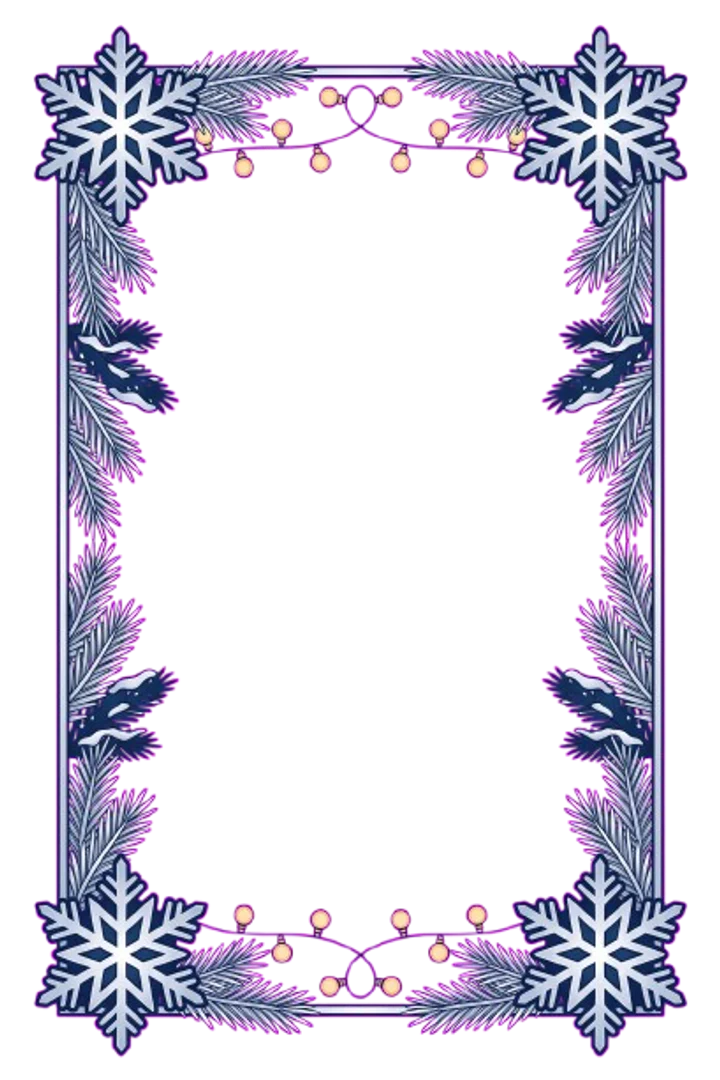
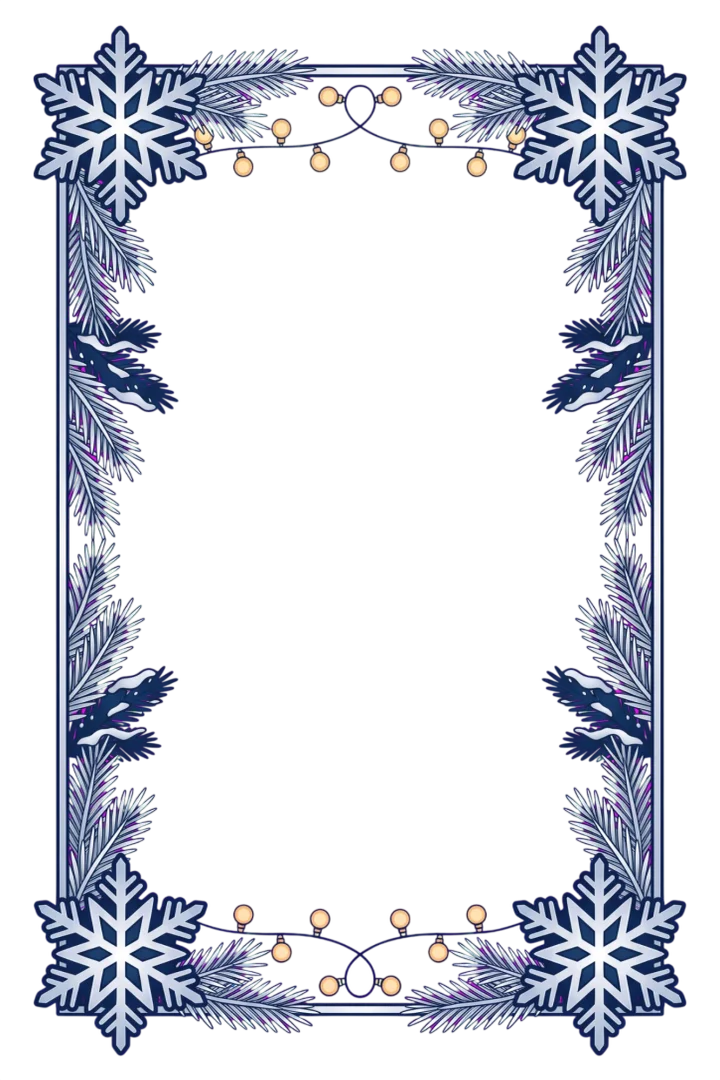
Cadres de fête sur les cartes de saison (accueil, collection, paquets, zoom), désactivables dans les Réglages ; cadres Nouvel An et Noël refaits par Jordan

Changed region(s): [[0.0306, 0.0, 0.9472, 0.9778]]

diff --git a/sw.js b/sw.js
@@ -5,9 +5,9 @@
    Le bloc entre les deux repères est réécrit par « node outils/versions.js » : ne pas le modifier à la main. */
 "use strict";
 /* VERSIONS-AUTO-DEBUT */
-const CORE_VERSION = "7500b2610c";
-const MEDIA_VERSION = "241fb90289";
-const PRECACHE_CORE = ["index.html","manifest.json","fonts/fonts.css?v=a5827da2","jeu.css?v=254a369a","vendor/supabase.js?v=16aeff36","config.js?v=bf7d9cd8","cloud.js?v=a13ce63b","cartes-en.js?v=b669ae2b","interface-en.js?v=e27de772","js/bac-a-sable.js?v=691dd380","js/cartes.js?v=f4223fd7","js/langue-profil.js?v=32393927","js/sons-effets.js?v=4e88cee5","js/moteur.js?v=e03dc57b","js/boutique-modes.js?v=7a0b70bd","js/holo.js?v=bd9f5a71","js/ouverture.js?v=62a77604","js/interface.js?v=1e36523c","js/sw-register.js?v=94e2e138"];
+const CORE_VERSION = "0ea3c7dbe9";
+const MEDIA_VERSION = "0e15ce91e9";
+const PRECACHE_CORE = ["index.html","manifest.json","fonts/fonts.css?v=a5827da2","jeu.css?v=fb9b2953","vendor/supabase.js?v=16aeff36","config.js?v=bf7d9cd8","cloud.js?v=a13ce63b","cartes-en.js?v=b669ae2b","interface-en.js?v=3aa699c7","js/bac-a-sable.js?v=691dd380","js/cartes.js?v=f4223fd7","js/langue-profil.js?v=7efe3076","js/sons-effets.js?v=4e88cee5","js/moteur.js?v=e03dc57b","js/boutique-modes.js?v=7a0b70bd","js/holo.js?v=bd9f5a71","js/ouverture.js?v=62a77604","js/interface.js?v=b25d1478","js/sw-register.js?v=94e2e138"];
 const PRECACHE_MEDIA = ["fonts/manrope-latin-ext-wght-normal.woff2","fonts/manrope-latin-wght-normal.woff2","fonts/marcellus-latin-400-normal.woff2","fonts/marcellus-latin-ext-400-normal.woff2","fonts/marcellus-sc-latin-400-normal.woff2","fonts/marcellus-sc-latin-ext-400-normal.woff2","icones/apple-touch-icon.png","icones/favicon-48.png","icones/icone-192.png","icones/icone-512.png","icones/icone-maskable-512.png","images/fond.webp","images/fond_halloween.webp","images/fond_noel.webp","images/fond_nouvelan.webp","images/fond_valentin.webp","images/lieux/inconnu.webp","images/pack.webp","images/rangs/0.webp","images/rangs/1.webp","images/rangs/2.webp","images/rangs/3.webp","images/rangs/4.webp","images/rangs/5.webp","images/rangs/6.webp","images/reflet.webp"];
 const PRECACHE_LAZY = ["images/avatars/aine.webp?v=7","images/avatars/amaterasu.webp?v=7","images/avatars/anahita.webp?v=7","images/avatars/ananke.webp?v=7","images/avatars/ananke_r.webp?v=7","images/avatars/ananke_v.webp?v=7","images/avatars/anansi.webp?v=7","images/avatars/anat.webp?v=7","images/avatars/andraste.webp?v=7","images/avatars/anubis.webp?v=7","images/avatars/aphrodite.webp?v=7","images/avatars/aphrodite_n.webp?v=7","images/avatars/aphrodite_r.webp?v=7","images/avatars/apollon.webp?v=7","images/avatars/apsu.webp?v=7","images/avatars/apsu_n.webp?v=7","images/avatars/araignee.webp?v=7","images/avatars/archiviste.webp?v=7","images/avatars/ares.webp?v=7","images/avatars/ares_h.webp?v=7","images/avatars/ares_n.webp?v=7","images/avatars/artemis.webp?v=7","images/avatars/artiste.webp?v=7","images/avatars/athena.webp?v=7","images/avatars/athlete_stade.webp?v=7","images/avatars/baba_yaga.webp?v=7","images/avatars/baldur.webp?v=7","images/avatars/balor.webp?v=7","images/avatars/bari_gongju.webp?v=7","images/avatars/bastet.webp?v=7","images/avatars/belobog.webp?v=7","images/avatars/benzaiten.webp?v=7","images/avatars/bia.webp?v=7","images/avatars/biblio.webp?v=7","images/avatars/boucher.webp?v=7","images/avatars/bourreau.webp?v=7","images/avatars/brigid.webp?v=7","images/avatars/calypso.webp?v=7","images/avatars/calypso_n.webp?v=7","images/avatars/calypso_v.webp?v=7","images/avatars/carillonneur.webp?v=7","images/avatars/celeste.webp?v=7","images/avatars/cernunnos.webp?v=7","images/avatars/cerridwen.webp?v=7","images/avatars/change.webp?v=7","images/avatars/charognard.webp?v=7","images/avatars/chasseur.webp?v=7","images/avatars/chernobog.webp?v=7","images/avatars/circe.webp?v=7","images/avatars/circe_n.webp?v=7","images/avatars/circe_v.webp?v=7","images/avatars/colosse.webp?v=7","images/avatars/comptable.webp?v=7","images/avatars/costumes.webp?v=7","images/avatars/coursier.webp?v=7","images/avatars/couturiere.webp?v=7","images/avatars/cronos.webp?v=7","images/avatars/dagda.webp?v=7","images/avatars/daji.webp?v=7","images/avatars/dante.webp?v=7","images/avatars/danu.webp?v=7","images/avatars/demeter.webp?v=7","images/avatars/devote.webp?v=7","images/avatars/dionysos.webp?v=7","images/avatars/doyenne.webp?v=7","images/avatars/dumuzi.webp?v=7","images/avatars/durga.webp?v=7","images/avatars/ea.webp?v=7","images/avatars/echidna.webp?v=7","images/avatars/ecoliere_dorigny.webp?v=7","images/avatars/ecorche.webp?v=7","images/avatars/effigie.webp?v=7","images/avatars/eir.webp?v=7","images/avatars/emiri.webp?v=7","images/avatars/enfant.webp?v=7","images/avatars/eos.webp?v=7","images/avatars/eos_r.webp?v=7","images/avatars/eos_v.webp?v=7","images/avatars/ereshkigal.webp?v=7","images/avatars/ereshkigal_n.webp?v=7","images/avatars/ereshkigal_v.webp?v=7","images/avatars/eris.webp?v=7","images/avatars/eros.webp?v=7","images/avatars/esquille.webp?v=7","images/avatars/fange.webp?v=7","images/avatars/felix.webp?v=7","images/avatars/fenrir.webp?v=7","images/avatars/ficelle.webp?v=7","images/avatars/freya.webp?v=7","images/avatars/freyr.webp?v=7","images/avatars/frigg.webp?v=7","images/avatars/funambule.webp?v=7","images/avatars/gaia.webp?v=7","images/avatars/graffeur.webp?v=7","images/avatars/guanyin.webp?v=7","images/avatars/hades.webp?v=7","images/avatars/hathor.webp?v=7","images/avatars/hecate.webp?v=7","images/avatars/hedone.webp?v=7","images/avatars/heimdall.webp?v=7","images/avatars/hel.webp?v=7","images/avatars/hel_r.webp?v=7","images/avatars/hel_v.webp?v=7","images/avatars/hephaistos.webp?v=7","images/avatars/hera.webp?v=7","images/avatars/herakles.webp?v=7","images/avatars/hermes.webp?v=7","images/avatars/horus.webp?v=7","images/avatars/hypnos.webp?v=7","images/avatars/idunn.webp?v=7","images/avatars/inanna.webp?v=7","images/avatars/indra.webp?v=7","images/avatars/ishara.webp?v=7","images/avatars/ishtar.webp?v=7","images/avatars/isis.webp?v=7","images/avatars/ixchel.webp?v=7","images/avatars/izanami.webp?v=7","images/avatars/izzy.webp?v=7","images/avatars/izzy_h.webp?v=7","images/avatars/joanna.webp?v=7","images/avatars/jordan.webp?v=7","images/avatars/jordan_n.webp?v=7","images/avatars/jormungandr.webp?v=7","images/avatars/joueuse_palud.webp?v=7","images/avatars/kali.webp?v=7","images/avatars/kama.webp?v=7","images/avatars/kitsune.webp?v=7","images/avatars/kitsune_r.webp?v=7","images/avatars/kitsune_v.webp?v=7","images/avatars/konohana.webp?v=7","images/avatars/lance_lugh.webp?v=7","images/avatars/lilith.webp?v=7","images/avatars/lipdentelle.webp?v=7","images/avatars/loki.webp?v=7","images/avatars/loviatar.webp?v=7","images/avatars/lugh.webp?v=7","images/avatars/maat.webp?v=7","images/avatars/maeve.webp?v=7","images/avatars/mago.webp?v=7","images/avatars/marduk.webp?v=7","images/avatars/maree.webp?v=7","images/avatars/maui.webp?v=7","images/avatars/medee.webp?v=7","images/avatars/medee_h.webp?v=7","images/avatars/meduse.webp?v=7","images/avatars/melinoe.webp?v=7","images/avatars/mendiant.webp?v=7","images/avatars/mere.webp?v=7","images/avatars/messagere.webp?v=7","images/avatars/meute.webp?v=7","images/avatars/mohini.webp?v=7","images/avatars/morrigan.webp?v=7","images/avatars/morrigan_h.webp?v=7","images/avatars/mouche.webp?v=7","images/avatars/musicien.webp?v=7","images/avatars/nageuse_lac.webp?v=7","images/avatars/namaka.webp?v=7","images/avatars/nammu.webp?v=7","images/avatars/nemesis.webp?v=7","images/avatars/nephtys.webp?v=7","images/avatars/nergal.webp?v=7","images/avatars/nergal_h.webp?v=7","images/avatars/nike.webp?v=7","images/avatars/nike_v.webp?v=7","images/avatars/nuee.webp?v=7","images/avatars/nuwa.webp?v=7","images/avatars/nyx.webp?v=7","images/avatars/nyx_h.webp?v=7","images/avatars/odin.webp?v=7","images/avatars/oshun.webp?v=7","images/avatars/osiris.webp?v=7","images/avatars/oya.webp?v=7","images/avatars/pakhet.webp?v=7","images/avatars/pandore.webp?v=7","images/avatars/passante.webp?v=7","images/avatars/patronne.webp?v=7","images/avatars/peche_immortalite.webp?v=7","images/avatars/pele.webp?v=7","images/avatars/pele_r.webp?v=7","images/avatars/penitente.webp?v=7","images/avatars/persephone.webp?v=7","images/avatars/plume.webp?v=7","images/avatars/poseidon.webp?v=7","images/avatars/possedee.webp?v=7","images/avatars/promethee.webp?v=7","images/avatars/psyche.webp?v=7","images/avatars/qetesh.webp?v=7","images/avatars/qetesh_r.webp?v=7","images/avatars/qetesh_v.webp?v=7","images/avatars/quetzalcoatl.webp?v=7","images/avatars/ra.webp?v=7","images/avatars/rati.webp?v=7","images/avatars/refaph.webp?v=7","images/avatars/reflet_noir.webp?v=7","images/avatars/reine_sevelin.webp?v=7","images/avatars/relieur.webp?v=7","images/avatars/remi.webp?v=7","images/avatars/rhea.webp?v=7","images/avatars/rusalka.webp?v=7","images/avatars/sansvoix.webp?v=7","images/avatars/scathach.webp?v=7","images/avatars/sedna.webp?v=7","images/avatars/sekhmet.webp?v=7","images/avatars/sekhmet_n.webp?v=7","images/avatars/selene.webp?v=7","images/avatars/set.webp?v=7","images/avatars/shamash.webp?v=7","images/avatars/shango.webp?v=7","images/avatars/shiva.webp?v=7","images/avatars/sif.webp?v=7","images/avatars/skadi.webp?v=7","images/avatars/somnambule.webp?v=7","images/avatars/source.webp?v=7","images/avatars/strategue.webp?v=7","images/avatars/styx.webp?v=7","images/avatars/sun_wukong.webp?v=7","images/avatars/susanoo.webp?v=7","images/avatars/tatoueur.webp?v=7","images/avatars/tatoueuse_flon.webp?v=7","images/avatars/tefnut.webp?v=7","images/avatars/tehom.webp?v=7","images/avatars/tezcatlipoca.webp?v=7","images/avatars/thanatos.webp?v=7","images/avatars/themis.webp?v=7","images/avatars/thor.webp?v=7","images/avatars/thot.webp?v=7","images/avatars/tlazol.webp?v=7","images/avatars/troll.webp?v=7","images/avatars/tsukuyomi.webp?v=7","images/avatars/typhon.webp?v=7","images/avatars/tyr.webp?v=7","images/avatars/ulaph.webp?v=7","images/avatars/ulaphares.webp?v=7","images/avatars/ularchiviste.webp?v=7","images/avatars/ularesathe.webp?v=7","images/avatars/ulbaldere.webp?v=7","images/avatars/ulbaldfrigg.webp?v=7","images/avatars/ulcal.webp?v=7","images/avatars/ulcircal.webp?v=7","images/avatars/ulcirce.webp?v=7","images/avatars/ulhadper.webp?v=7","images/avatars/ulhel.webp?v=7","images/avatars/ulheradio.webp?v=7","images/avatars/ulinaere.webp?v=7","images/avatars/ulji.webp?v=7","images/avatars/ulmaatset.webp?v=7","images/avatars/ulnem.webp?v=7","images/avatars/ulnikebia.webp?v=7","images/avatars/ulnikejor_v.webp?v=7","images/avatars/uloshoya.webp?v=7","images/avatars/uloshun.webp?v=7","images/avatars/ulpele_r.webp?v=7","images/avatars/ulposathe.webp?v=7","images/avatars/ulprombia.webp?v=7","images/avatars/ulprompan.webp?v=7","images/avatars/ulqetjor.webp?v=7","images/avatars/ulqetjor_r.webp?v=7","images/avatars/ulqetjor_v.webp?v=7","images/avatars/ulqetyar.webp?v=7","images/avatars/ulsomnambule.webp?v=7","images/avatars/ulsusama.webp?v=7","images/avatars/ultyphgaia.webp?v=7","images/avatars/ulya.webp?v=7","images/avatars/uzume.webp?v=7","images/avatars/vasseur.webp?v=7","images/avatars/veilleur.webp?v=7","images/avatars/veilleur_pont.webp?v=7","images/avatars/vesta.webp?v=7","images/avatars/voix_flon.webp?v=7","images/avatars/voleuse.webp?v=7","images/avatars/voyante.webp?v=7","images/avatars/voyante_barbare.webp?v=7","images/avatars/vritra.webp?v=7","images/avatars/xiuhcoatl.webp?v=7","images/avatars/xiwangmu.webp?v=7","images/avatars/yama.webp?v=7","images/avatars/yarden.webp?v=7","images/avatars/yarden_d.webp?v=7","images/avatars/yemanja.webp?v=7","images/avatars/ymir.webp?v=7","images/avatars/zeus.webp?v=7","images/lieux/archives.webp","images/lieux/cathedrale.webp","images/lieux/cirque.webp","images/lieux/domaine.webp","images/lieux/encheres.webp","images/lieux/escaliers.webp","images/lieux/faille.webp","images/lieux/flon.webp","images/lieux/ouchy.webp","images/lieux/ruelle.webp","images/lieux/sauvabelin.webp","images/lieux/sousgare.webp","images/lieux/tombeau.webp","images/lieux/tour.webp"];
 /* VERSIONS-AUTO-FIN */

diff --git a/js/interface.js b/js/interface.js
@@ -55,13 +55,18 @@ function holoTilesAttach(root){
   });
   for(const [k,v] of HOLO_TILES) if(!live.has(k)){ holoKill(v.h); HOLO_TILES.delete(k); }
 }
+/* Cadres de fête (Jordan, 25 octobre) : cartes exclusives d'une saison et variantes Saint-Valentin / Nouvel An, affichés à l'accueil et dans la Collection (pas en partie), désactivables dans les Réglages */
+const FRAME_EX={halloween:"halloween",noel:"noel",nouvelan:"nouvel-an",paques:"paques",valentin:"saint-valentin"};
+const frameKey=id=>{ const d=CARDS[id]; if(!d||d.token) return null; if(d.ex&&FRAME_EX[d.ex]) return FRAME_EX[d.ex]; if(/_v$/.test(id)) return "saint-valentin"; if(/_r$/.test(id)) return "nouvel-an"; if(/_p$/.test(id)) return "paques"; return null; };
+const frameCadre=id=>frameOn()&&frameKey(id)?`<i class="cadre cz" style="background-image:url('images/cadres/${frameKey(id)}.webp')" aria-hidden="true"></i>`:"";
+const frameOn=()=>P.cadres!==false&&screen!=="play"&&!(S&&S.tut);
 function fullCard(id,extra="",powOv=null){
   const d=CARDS[id], F=FAC[d.fac], R=RAR[d.r];
   /* carte holo en grand : l'image fixe n'a plus les animations d'ultra-légendaire (reflet arc-en-ciel, ambiance, inclinaison) : l'effet holo prend la suite et elles apparaissaient quelques instants avant de disparaître */
   const hp=/\b(big|fanh)\b/.test(extra)&&d.r==="U"&&!!holoDir(id);
   const fx=!hp&&/\bbig\b/.test(extra)&&(d.r==="L"||d.r==="U")?` tilt${d.r==="U"&&d.vfx?" amb":""}" data-vfx="${d.vfx||""}`:"";
   const tl=/\btileh\b/.test(extra)&&hasHoloTile(id);
-  return `<div class="full ${extra}${d.r==="U"&&!hp&&!tl?" holo":""}${hp?" holopre":""}${tl?" holof":""}${rc(d)}${fx}">${art(id,/\bbig\b/.test(extra)?"big":undefined)}${tl?tileHolo(id,"g"+id):""}${d.r==="L"?'<i class="lgp" aria-hidden="true"></i>':""}<span class="cost">${d.cost}</span>
+  return `<div class="full ${extra}${d.r==="U"&&!hp&&!tl?" holo":""}${hp?" holopre":""}${tl?" holof":""}${rc(d)}${fx}">${art(id,/\bbig\b/.test(extra)?"big":undefined)}${tl?tileHolo(id,"g"+id):""}${frameOn()&&frameKey(id)?`<i class="cadre" style="background-image:url('images/cadres/${frameKey(id)}.webp')" aria-hidden="true"></i>`:""}${d.r==="L"?'<i class="lgp" aria-hidden="true"></i>':""}<span class="cost">${d.cost}</span>
     <div class="band"><div class="n">${d.name}</div><div class="f"><span style="color:${F.c}">${F.n}</span> · <span style="color:${R.c}">${rarN(id)}</span></div>${d.fx?`<div class="e">${fxH(d.fx)}</div>`:""}</div>
     <span class="pw ${powOv!=null&&powOv>d.pow?"up":powOv!=null&&powOv<d.pow?"down":""}">${powOv!=null?powOv:d.pow}</span></div>`;
 }
@@ -104,6 +109,7 @@ function sheetHTML(){
     <div class="setrow"><span>Son</span><span class="footbtns"><button class="toggle" data-act="music" aria-pressed="${P.music}">Musique : ${P.music?"activée":"coupée"}</button><button class="toggle" data-act="sfx" aria-pressed="${P.sfx}">Effets : ${P.sfx?"activés":"coupés"}</button></span></div>
     <div class="setrow"><span>Volume de la musique</span><span class="volrow"><input type="range" min="0" max="100" step="5" value="${P.vm??35}" data-vol="vm" aria-label="Volume de la musique"><b data-volv="vm">${P.vm??35}</b></span></div>
     <div class="setrow"><span>Volume des effets</span><span class="volrow"><input type="range" min="0" max="100" step="5" value="${P.vs??100}" data-vol="vs" aria-label="Volume des effets"><b data-volv="vs">${P.vs??100}</b></span></div>
+    <div class="setrow"><span>Cadres de fête</span><button class="toggle" data-act="cadres" aria-pressed="${P.cadres!==false}">${P.cadres!==false?"Activés":"Coupés"}</button></div>
     <div class="setrow"><span>Cinématiques</span><button class="toggle" data-act="cine" aria-pressed="${P.cine!==false}">${P.cine!==false?"Activée":"Coupée"}</button></div>
     <div class="setrow"><span>Tutoriel</span><button class="toggle" data-act="tuto">Revoir le tutoriel</button></div>
     <div class="setrow"><span>Nouveautés</span><button class="toggle" data-act="majshow">Notes de mise à jour</button></div>
@@ -464,7 +470,7 @@ function fanPickHTML(){
 /* --- carte agrandie --- */
 function zoomHTML(){
   if(!zoomId) return ""; const d=CARDS[zoomId], F=FAC[d.fac], R=RAR[d.r];
-  return `<div class="veil" data-act="unzoom"><div class="zoomwrap">${holoDir(zoomId)?`<div class="holoslot" id="holoslot" data-act="holoin">${fullCard(zoomId,"big")}</div>`:fullCard(zoomId,"big")}
+  return `<div class="veil" data-act="unzoom"><div class="zoomwrap">${holoDir(zoomId)?`<div class="holoslot" id="holoslot" data-act="holoin">${fullCard(zoomId,"big")}${frameCadre(zoomId)}</div>`:fullCard(zoomId,"big")}
     <div class="zoominfo"><div class="t">${d.name}</div><div class="m"><span style="color:${F.c}">${F.n}</span> · <span style="color:${R.c}">${rarN(zoomId)}</span> · coût ${d.cost} · puissance ${d.pow}</div>${d.fx?`<p>${fxH(d.fx)}</p>`:""}
     ${screen==="deck"&&P.owned.includes(zoomId)&&!d.token?`<p class="deckstate ${P.deck.includes(zoomId)?"in":""}">${P.deck.includes(zoomId)?`Dans ton deck · ${P.deck.length}/${ECO.deckSize}`:`Pas dans ton deck · ${P.deck.length}/${ECO.deckSize}`}</p>${deckMsg?`<p class="deckmsg">${deckMsg}</p>`:""}<button class="primary" data-act="toggle" data-id="${zoomId}">${P.deck.includes(zoomId)?"Retirer du deck":"Ajouter au deck"}</button>`:""}
     <div class="row2"><button class="ghost" data-act="unzoom">Fermer</button>${P.owned.includes(zoomId)&&P.avatar!==zoomId?`<button class="ghost" data-act="avset" data-id="${zoomId}">En faire mon avatar</button>`:""}</div></div></div></div>`;
@@ -953,6 +959,7 @@ document.addEventListener("click", e=>{
     case "cancelname": editName=false; render(); return;
     case "music": P.music=!P.music; save(); render(); return;
     case "cine": P.cine=P.cine===false; save(); render(); return;
+    case "cadres": P.cadres=P.cadres===false; save(); render(); return;
     case "lang": setLang(LANG==="fr"?"en":"fr"); sfx("click"); render(); return;
     case "htoggle": { const t=+el.dataset.t; if(histOpen.has(t)) histOpen.delete(t); else histOpen.add(t); render(); return; }
     case "hfilt": histFilter=el.dataset.f||"all"; sfx("click"); render(); return;

diff --git a/js/langue-profil.js b/js/langue-profil.js
@@ -176,7 +176,7 @@ const RETIRED = ["mouette","pickpocket","guetteuse","serveuse","contrebandier","
 /* ======= SAUVEGARDE ======= */
 const HIST_MAX=20;
 const SAVE_KEY = "duel-helvara-save-v1", OWNER_KEY = "duel-helvara-save-owner";
-function freshProfile(){ return {ld:"", name:"Voyageur "+(1000+Math.floor(Math.random()*9000)), rv:2, chf:0, w:0, l:0, d:0, owned:[], deck:[], sfx:true, music:true, vm:35, vs:100, cine:true, fan:[], avatar:null, tuto:false, starter:false, lv:0, st:0, streak:0, best:0, season:seasonKey(), sw:0, sl:0, sd:0, dw:0, dl:0, dd:0, dis:[], bz:{day:"",used:false,run:null}, decks:defDecks(), di:0, hist:[], sb:{day:"",ids:[]}, maj:MAJ[0].id}; }
+function freshProfile(){ return {ld:"", name:"Voyageur "+(1000+Math.floor(Math.random()*9000)), rv:2, chf:0, w:0, l:0, d:0, owned:[], deck:[], sfx:true, music:true, vm:35, vs:100, cine:true, cadres:true, fan:[], avatar:null, tuto:false, starter:false, lv:0, st:0, streak:0, best:0, season:seasonKey(), sw:0, sl:0, sd:0, dw:0, dl:0, dd:0, dis:[], bz:{day:"",used:false,run:null}, decks:defDecks(), di:0, hist:[], sb:{day:"",ids:[]}, maj:MAJ[0].id}; }
 let migratedNote="";
 const COVERS=["primordial","desir","jugement","helvara"];
 function defDecks(){ return COVERS.map((c,i)=>({name:`Deck ${i+1}`,cover:c,cards:[]})); }
@@ -222,7 +222,7 @@ function clean(p){
   const out={at:num(p.at,0), name:(typeof p.name==="string"&&p.name.trim()?p.name.trim().slice(0,24):f.name), chf:num(p.chf,f.chf)+retired*25, w:num(p.w,0), l:num(p.l,0), d:num(p.d,0), owned, deck, sfx:p.sfx!==false,
     lv:Math.min(MAXLV,p.rv===2?num(p.lv,0):migrateLv(num(p.lv,0))), st:num(p.st,0), streak:num(p.streak,0), best:Math.min(MAXLV,p.rv===2?num(p.best,0):migrateLv(num(p.best,0))), rv:2,
     season:(typeof p.season==="string"&&/^\d{4}-\d{2}$/.test(p.season))?p.season:seasonKey(), sw:num(p.sw,0), sl:num(p.sl,0), sd:num(p.sd,0),
-    tuto:p.tuto===undefined?true:!!p.tuto, starter:!!p.starter, avatar:(POOL.includes(p.avatar)?p.avatar:null), music:p.music!==false, vm:Math.min(100,num(p.vm,35)), vs:Math.min(100,num(p.vs,100)), cine:p.cine!==false, dis:(Array.isArray(p.dis)?p.dis.filter(x=>typeof x==="string").slice(0,20):[]), dw:num(p.dw,0), dl:num(p.dl,0), dd:num(p.dd,0), fan:(Array.isArray(p.fan)?p.fan.filter(id=>POOL.includes(id)).slice(0,3):[]),
+    tuto:p.tuto===undefined?true:!!p.tuto, starter:!!p.starter, avatar:(POOL.includes(p.avatar)?p.avatar:null), music:p.music!==false, vm:Math.min(100,num(p.vm,35)), vs:Math.min(100,num(p.vs,100)), cine:p.cine!==false, cadres:p.cadres!==false, dis:(Array.isArray(p.dis)?p.dis.filter(x=>typeof x==="string").slice(0,20):[]), dw:num(p.dw,0), dl:num(p.dl,0), dd:num(p.dd,0), fan:(Array.isArray(p.fan)?p.fan.filter(id=>POOL.includes(id)).slice(0,3):[]),
     ld:(typeof p.ld==="string"?p.ld.slice(0,10):""), bz:cleanBz(p.bz), sb:(p.sb&&typeof p.sb.day==="string"&&Array.isArray(p.sb.ids))?{day:p.sb.day,ids:p.sb.ids.filter(x=>typeof x==="string").slice(0,3)}:{day:"",ids:[]}, hist:(Array.isArray(p.hist)?p.hist.filter(h=>h&&typeof h==="object"&&["win","lose","draw"].includes(h.res)).slice(0,HIST_MAX).map(cleanHist):[]), decks:cleanDecks(p.decks,owned,deck), di:Math.min(3,Math.max(0,p.di|0)),
     daily:(p.daily&&typeof p.daily.day==="string")?{day:p.daily.day.slice(0,10),n:Math.min(7,num(p.daily.n,0))}:{day:"",n:0},
     q:(p.q&&typeof p.q.day==="string"&&Array.isArray(p.q.list))?{day:p.q.day,rr:!!p.q.rr,list:p.q.list.filter(x=>x&&QDEF[x.id]).slice(0,2).map(x=>({id:x.id,p:Math.min(QDEF[x.id].n,num(x.p,0)),c:!!x.c,...(typeof x.x==="string"?{x:x.x.slice(0,24)}:{})}))}:null,

diff --git a/interface-en.js b/interface-en.js
@@ -149,7 +149,7 @@
     "Se connecter avec Google":"Sign in with Google", "Mes données":"My data", "Historique des matchs":"Match history", "Historique complet des matchs →":"Full match history →", "← Profil":"← Profile", "Aucune partie enregistrée pour l'instant.":"No games recorded yet.", "Tes 20 dernières parties apparaîtront ici.":"Your last 20 games will appear here.", "Victoires en %":"Win rate", "Tout":"All", "IA":"AI", "Puissance totale :":"Total power:", "Rang :":"Rank:", "Aucune partie pour ce filtre.":"No games for this filter.",
      "Exporter mes données":"Export my data", "Supprimer mon compte":"Delete my account", "Confidentialité":"Privacy", "Conditions et mentions légales":"Terms and legal notice", "Crédits":"Credits",
     "Supprimer définitivement ton compte, ta progression et ta fiche de classement ? Cette action est irréversible.":"Permanently delete your account, your progress and your leaderboard entry? This cannot be undone.", "La suppression n'a pas pu aboutir. Réessaie plus tard.":"Deletion failed. Please try again later.", "pour la retrouver partout.":"to keep it everywhere.", "Se déconnecter":"Sign out", "Sauvegarde…":"Saving…", "Sauvegardé ✓":"Saved ✓", "Envoi en attente… (retenté)":"Upload pending… (retrying)",
-    "Revoir le tutoriel":"Replay the tutorial", "Volume de la musique":"Music volume", "Volume des effets":"Sound effects volume", "Quête de la semaine":"Weekly quest", "Gagne 15 parties cette semaine":"Win 15 games this week", "Jusqu'à dimanche soir":"Until Sunday night", "Tu peux changer une quête par jour.":"You can change one quest per day.", "Cinématiques":"Cinematics", "Activée":"On", "Coupée":"Off", "Touche pour passer":"Tap to skip", "Musique : activée":"Music: on", "Musique : coupée":"Music: off", "Effets : activés":"Sound effects: on", "Effets : coupés":"Sound effects: off",
+    "Revoir le tutoriel":"Replay the tutorial", "Volume de la musique":"Music volume", "Volume des effets":"Sound effects volume", "Quête de la semaine":"Weekly quest", "Gagne 15 parties cette semaine":"Win 15 games this week", "Jusqu'à dimanche soir":"Until Sunday night", "Tu peux changer une quête par jour.":"You can change one quest per day.", "Cinématiques":"Cinematics", "Cadres de fête":"Festive frames", "Activés":"On", "Coupés":"Off", "Activée":"On", "Coupée":"Off", "Touche pour passer":"Tap to skip", "Musique : activée":"Music: on", "Musique : coupée":"Music: off", "Effets : activés":"Sound effects: on", "Effets : coupés":"Sound effects: off",
     "Vitrine : glisse pour faire tourner les cartes":"Showcase: swipe to rotate the cards",
     /* tutoriel */
     "Tutoriel":"Tutorial", "Bienvenue à Helvara":"Welcome to Helvara", "Chaque duel se joue sur":"Each duel is played across", "3 lieux":"3 locations",

diff --git a/index.html b/index.html
@@ -3,7 +3,7 @@
 <link rel="preload" href="fonts/manrope-latin-wght-normal.woff2" as="font" type="font/woff2" crossorigin>
 <link rel="preload" href="fonts/marcellus-latin-400-normal.woff2" as="font" type="font/woff2" crossorigin>
 <link rel="stylesheet" href="fonts/fonts.css?v=a5827da2">
-<link rel="stylesheet" href="jeu.css?v=254a369a">
+<link rel="stylesheet" href="jeu.css?v=fb9b2953">
 
 <div class="wrap" id="app"></div>
 
@@ -11,16 +11,16 @@
 <script src="config.js?v=bf7d9cd8"></script>
 <script src="cloud.js?v=a13ce63b"></script>
 <script src="cartes-en.js?v=b669ae2b"></script>
-<script src="interface-en.js?v=e27de772"></script>
+<script src="interface-en.js?v=3aa699c7"></script>
 <script src="js/bac-a-sable.js?v=691dd380"></script>
 <script src="js/cartes.js?v=f4223fd7"></script>
-<script src="js/langue-profil.js?v=32393927"></script>
+<script src="js/langue-profil.js?v=7efe3076"></script>
 <script src="js/sons-effets.js?v=4e88cee5"></script>
 <script src="js/moteur.js?v=e03dc57b"></script>
 <script src="js/boutique-modes.js?v=7a0b70bd"></script>
 <script src="js/holo.js?v=bd9f5a71" data-mod="js/holo-card.js?v=e749a367"></script>
 <script src="js/ouverture.js?v=62a77604"></script>
-<script src="js/interface.js?v=1e36523c"></script>
+<script src="js/interface.js?v=b25d1478"></script>
 <script src="js/sw-register.js?v=94e2e138"></script>
 
 

diff --git a/jeu.css b/jeu.css
@@ -163,6 +163,7 @@ body::before{content:"";position:fixed;inset:0;z-index:-1;background:linear-grad
 .grid{display:grid;grid-template-columns:repeat(auto-fill,minmax(150px,1fr));gap:12px}
 .full{position:relative;aspect-ratio:2/3;border-radius:12px;overflow:hidden;border:1px solid rgba(255,255,255,.14);max-width:100%}
 .full .art{position:absolute;inset:0}
+.full .cadre{position:absolute;inset:0;background-size:100% 100%;background-repeat:no-repeat;pointer-events:none}
 .full .art.ph{--monosz:48px}
 .full .cost{width:30px;height:34px;font-size:17px;left:6px;top:6px}
 .full .pw{width:32px;height:32px;font-size:18px;right:6px;top:6px;bottom:auto}
@@ -910,3 +911,6 @@ body:has(.sandbar) #app{padding-top:62px}
 /* carte holo en grand : seule l'illustration (nom, coût, texte sont dans l'encadré en dessous), comme l'effet qui prend la suite : le passage ne se voit plus */
 .full.holopre>.band,.full.holopre>.cost,.full.holopre>.pw,.full.holopre>.lgp{display:none}
 .full.holopre{border-color:rgba(232,184,90,.42);box-shadow:inset 0 0 0 1px rgba(232,184,90,.3)}
+
+.holoslot{position:relative}
+.holoslot>.cadre.cz{position:absolute;inset:0;z-index:6;background-size:100% 100%;background-repeat:no-repeat;pointer-events:none;border-radius:12px}

diff --git a/docs/reference-technique.md b/docs/reference-technique.md
@@ -202,3 +202,7 @@ Ouvrir `https://kanoew.github.io/Duel-Helvara/?date=2027-02-05` simule cette dat
 - **Musique** (étape 2) : `audio/*.mp3` réencodés en MP3 128 kbps stéréo 44,1 kHz (mêmes noms ; 8,8 Mo → 5,9 Mo). Durées et silences de début/fin (`mEdges`) mesurés avant/après : identiques à 2 ms près, donc les boucles ne bougent pas. Cache `MBUF` limité à 2 pistes décodées (les pistes en lecture, en fondu ou en pause ne sont jamais évincées). Pour réencoder un nouveau morceau : `ffmpeg -i in.mp3 -map_metadata -1 -c:a libmp3lame -b:a 128k -ac 2 out.mp3`.
 - **Préchargement** (étape 3) : `preloadDeck()` (début de `js/interface.js`) met en file les illustrations et avatars des cartes du deck et le morceau de la prochaine partie (`nextPlay`, choisi à l'avance, puis lu tel quel par `musicKey()`). Appelé au chargement, au changement de deck (`deckpick`) et quand le deck atteint 12 cartes. Priorité basse (`fetchPriority`, `fetch priority:"low"`), par petits lots dans `requestIdleCallback`, sans doublon (`PRE`), désactivé si `navigator.connection.saveData` ou réseau 2G. Mesuré : plus long blocage du fil principal 5 ms pour 24 images.
 - **PWA** (étape 4) : `manifest.json` (le lien `<link rel="manifest">`, `theme-color` et les icônes sont **dans le `<head>` de la ligne 1** d'`index.html`, juste avant `</head>` : placés après, le navigateur ne voit pas le manifeste et refuse l'installation ; mode « application » `standalone` avec barre d'état — plus prudent que le plein écran demandé au départ, réversible en une ligne —, portrait, fond et thème `#0a0e16`, icônes PNG dans `icones/`), `sw.js` enregistré par un petit script en bas d'`index.html` (pas d'enregistrement quand `navigator.webdriver` est vrai : les tests Playwright restent sans service worker). **Stratégies** : images, musiques, polices, icônes = cache d'abord (cache `helvara-media-<V>`) ; HTML, JS, CSS = réseau d'abord, la page d'accueil est toujours revérifiée (`cache:"no-cache"`), copie en cache seulement sans réseau ou après 4 s sans réponse (cache `helvara-core-<V>`). **Jamais en cache** : tout ce qui n'est pas du site (Supabase, duels en ligne : le service worker ne les intercepte même pas), les requêtes non GET et les requêtes `Range`. **Versions** : `node outils/versions.js` réécrit le bloc entre `VERSIONS-AUTO-DEBUT` et `VERSIONS-AUTO-FIN` de `sw.js` : `CORE_VERSION` (index.html + manifest, donc tous les `?v=`), `MEDIA_VERSION` (contenu de images, audio, fonts, icones : change dès qu'un média change, y compris une illustration remplacée sans changer son nom) et les listes de préchargement. Un déploiement change donc `sw.js` ; le navigateur installe le nouveau service worker, qui supprime les anciens caches `helvara-*` et prend la main (`skipWaiting`, `clients.claim`) ; la page se recharge toute seule une fois, **jamais** pendant une partie, l'ouverture d'un paquet (`packOpen`), la recherche d'adversaire (`mq`) ou un salon de duel (`myMp`, `roomC`) : elle attend la fin (nouvel essai toutes les 3 s). Compromis : quand un média change, le cache media est renouvelé en entier (les images servies se retéléchargent à l'usage). Hors ligne : une partie contre l'IA marche ; **tous les avatars** (miniatures du plateau, adversaire compris) **et les lieux** (~3 Mo, `PRECACHE_LAZY`) sont rangés en arrière-plan après l'activation (`fillLazy`, sans bloquer la page) ; les grandes illustrations sont celles déjà vues ou préchargées (le deck). Connexion Google depuis l'appli installée (Brave, Chrome, testé par Jordan le 13 octobre) : fonctionne, mais il a fallu choisir le compte deux fois. **Interrupteur de secours** : `outils/sw-secours.js`. Si une version de `sw.js` casse le jeu chez les joueurs : `cp outils/sw-secours.js sw.js`, commit, push sur `main`. Au passage suivant, chaque joueur voit ses caches `helvara-*` supprimés, le service worker désinstallé et la page rechargée une fois (seulement celles qu'il contrôlait : pas de boucle) ; sauvegardes intactes. `outils/versions.js` prévient tant que le service worker de secours est en place. Pour revenir : remettre le vrai `sw.js` (`git checkout <commit> -- sw.js`), `node outils/versions.js`, publier. Testé par `outils/tests-pwa.js`. Pages de confidentialité (FR et EN) : paragraphe sur ce cache. **Ne pas ajouter de service externe à `sw.js`** (il ne doit jamais toucher à Supabase). Les pages légales sont aussi servies par le service worker (réseau d'abord).
+
+## Cadres de fête (25 octobre 2026)
+
+Images de Jordan dans `images/cadres/<saison>.webp` (720 × 1080, transparentes : `halloween`, `noel`, `nouvel-an`, `saint-valentin`, `paques`). `frameKey(id)` (`js/interface.js`) : cartes avec `ex` (`halloween`, `noel`, `nouvelan`, plus `valentin` et `paques` à venir), sinon id en `_v` (Saint-Valentin), `_r` (Nouvel An) ou `_p` (Pâques) ; jamais pour un jeton. `fullCard()` ajoute `<i class="cadre">` (collection, accueil, paquets, zoom) ; **pas en partie** (`screen==="play"`) ni au tutoriel. Cartes holo en zoom : `frameCadre()` dans `.holoslot` (z-index au-dessus du holo). Réglage `P.cadres` (« Cadres de fête », Activés / Coupés, activé par défaut). Le cadre Saint-Valentin et Pâques attendent leurs saisons (pas encore codées).
